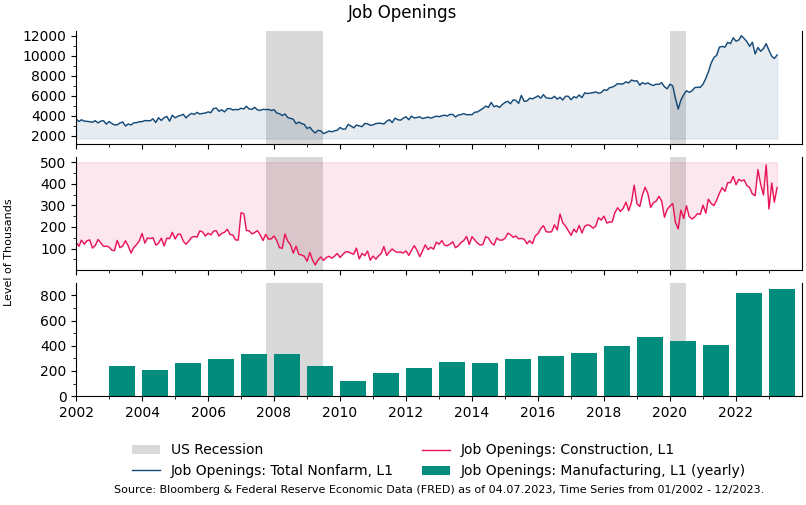
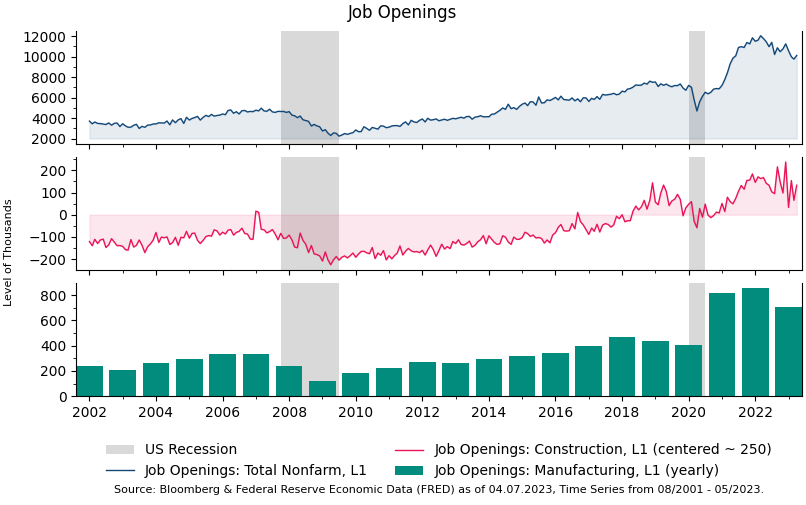
fix x lims

Changed region(s): [[0.031, 0.0594, 1.0, 0.8317], [0.1241, 0.8614, 0.9615, 0.9802]]

diff --git a/charting/model/chart.py b/charting/model/chart.py
@@ -1,8 +1,9 @@
-from datetime import datetime
+from datetime import datetime, timedelta
 from functools import reduce
 from typing import Tuple, Union, List, Dict
 
 import numpy as np
+import pandas as pd
 from matplotlib import pyplot as plt
 from matplotlib.axes import Axes
 from matplotlib.dates import num2date
@@ -270,14 +271,21 @@ class Chart:
                     bar_bottom = np.zeros(len(x))
                     color = get_stacked_color(0)
 
-            handle = ax.bar(x, y, align='edge', width=mean_bar_width, bottom=bar_bottom,
+            handle = ax.bar(x, y, align='center', width=mean_bar_width, bottom=bar_bottom,
                             label=label, color=color, alpha=alpha)
         else:
             raise NotImplemented(f"Chart type '{chart_type} is not implemented yet!")
 
+        x_min = min(x)
+        x_max = max(x)
+
+        if chart_type == 'bar':
+            x_min = x_min - timedelta(days=mean_bar_width / 2)
+            x_max = x_max + timedelta(days=mean_bar_width / 2)
+
         self.handles.append(handle)
-        self.x_min.append(min(x))
-        self.x_max.append(max(x))
+        self.x_min.append(x_min)
+        self.x_max.append(x_max)
 
     def add_horizontal_line(self, row_index: int = 0, y_axis_index: int = 0, y: float = 0) -> None:
         """

diff --git a/examples/charts/job_openings.py b/examples/charts/job_openings.py
@@ -3,6 +3,7 @@ from pandas import DateOffset
 
 from charting.model.chart import Chart
 from charting.transformer.avg import Avg
+from charting.transformer.center import Center
 from charting.transformer.pct import Pct
 from charting.transformer.resample import Resample
 from examples import fred
@@ -39,10 +40,10 @@ if __name__ == '__main__':
     chart.add_vertical_line(x=d0.index, y=d0["y"], row_index=1)
     chart.add_vertical_line(x=d0.index, y=d0["y"], row_index=2)
 
-    chart.add_series(d1.index, d1["y"], row_index=0, label=t1, fill=True)
-    chart.add_series(d2.index, d2["y"], row_index=1, label=t2, fill=True, fill_threshold=500)
+    chart.add_series(d1.index, d1["y"], row_index=0, label=t1, fill=True, fill_threshold=2000)
+    chart.add_series(d2.index, d2["y"], row_index=1, label=t2, transformer=Center(val=250), fill=True, fill_threshold=0)
     chart.add_series(d3.index, d3["y"], row_index=2, chart_type='bar', label=t3,
-                     transformer=[Resample(rule='Y')])
+                     transformer=Resample(rule='Y'))
 
     chart.legend(ncol=2)
     chart.plot("output/job-openings.png")

diff --git a/charting/transformer/resample.py b/charting/transformer/resample.py
@@ -31,6 +31,7 @@ class Resample(Transformer):
         """
         df = DataFrame({'y': y}, index=x)
         resampled_df = df.resample(self.rule).mean()
+        resampled_df.index = resampled_df.index.to_period(self.rule).to_timestamp(how='start')
         resampled_x = resampled_df.index
         resampled_y = resampled_df['y']
 
